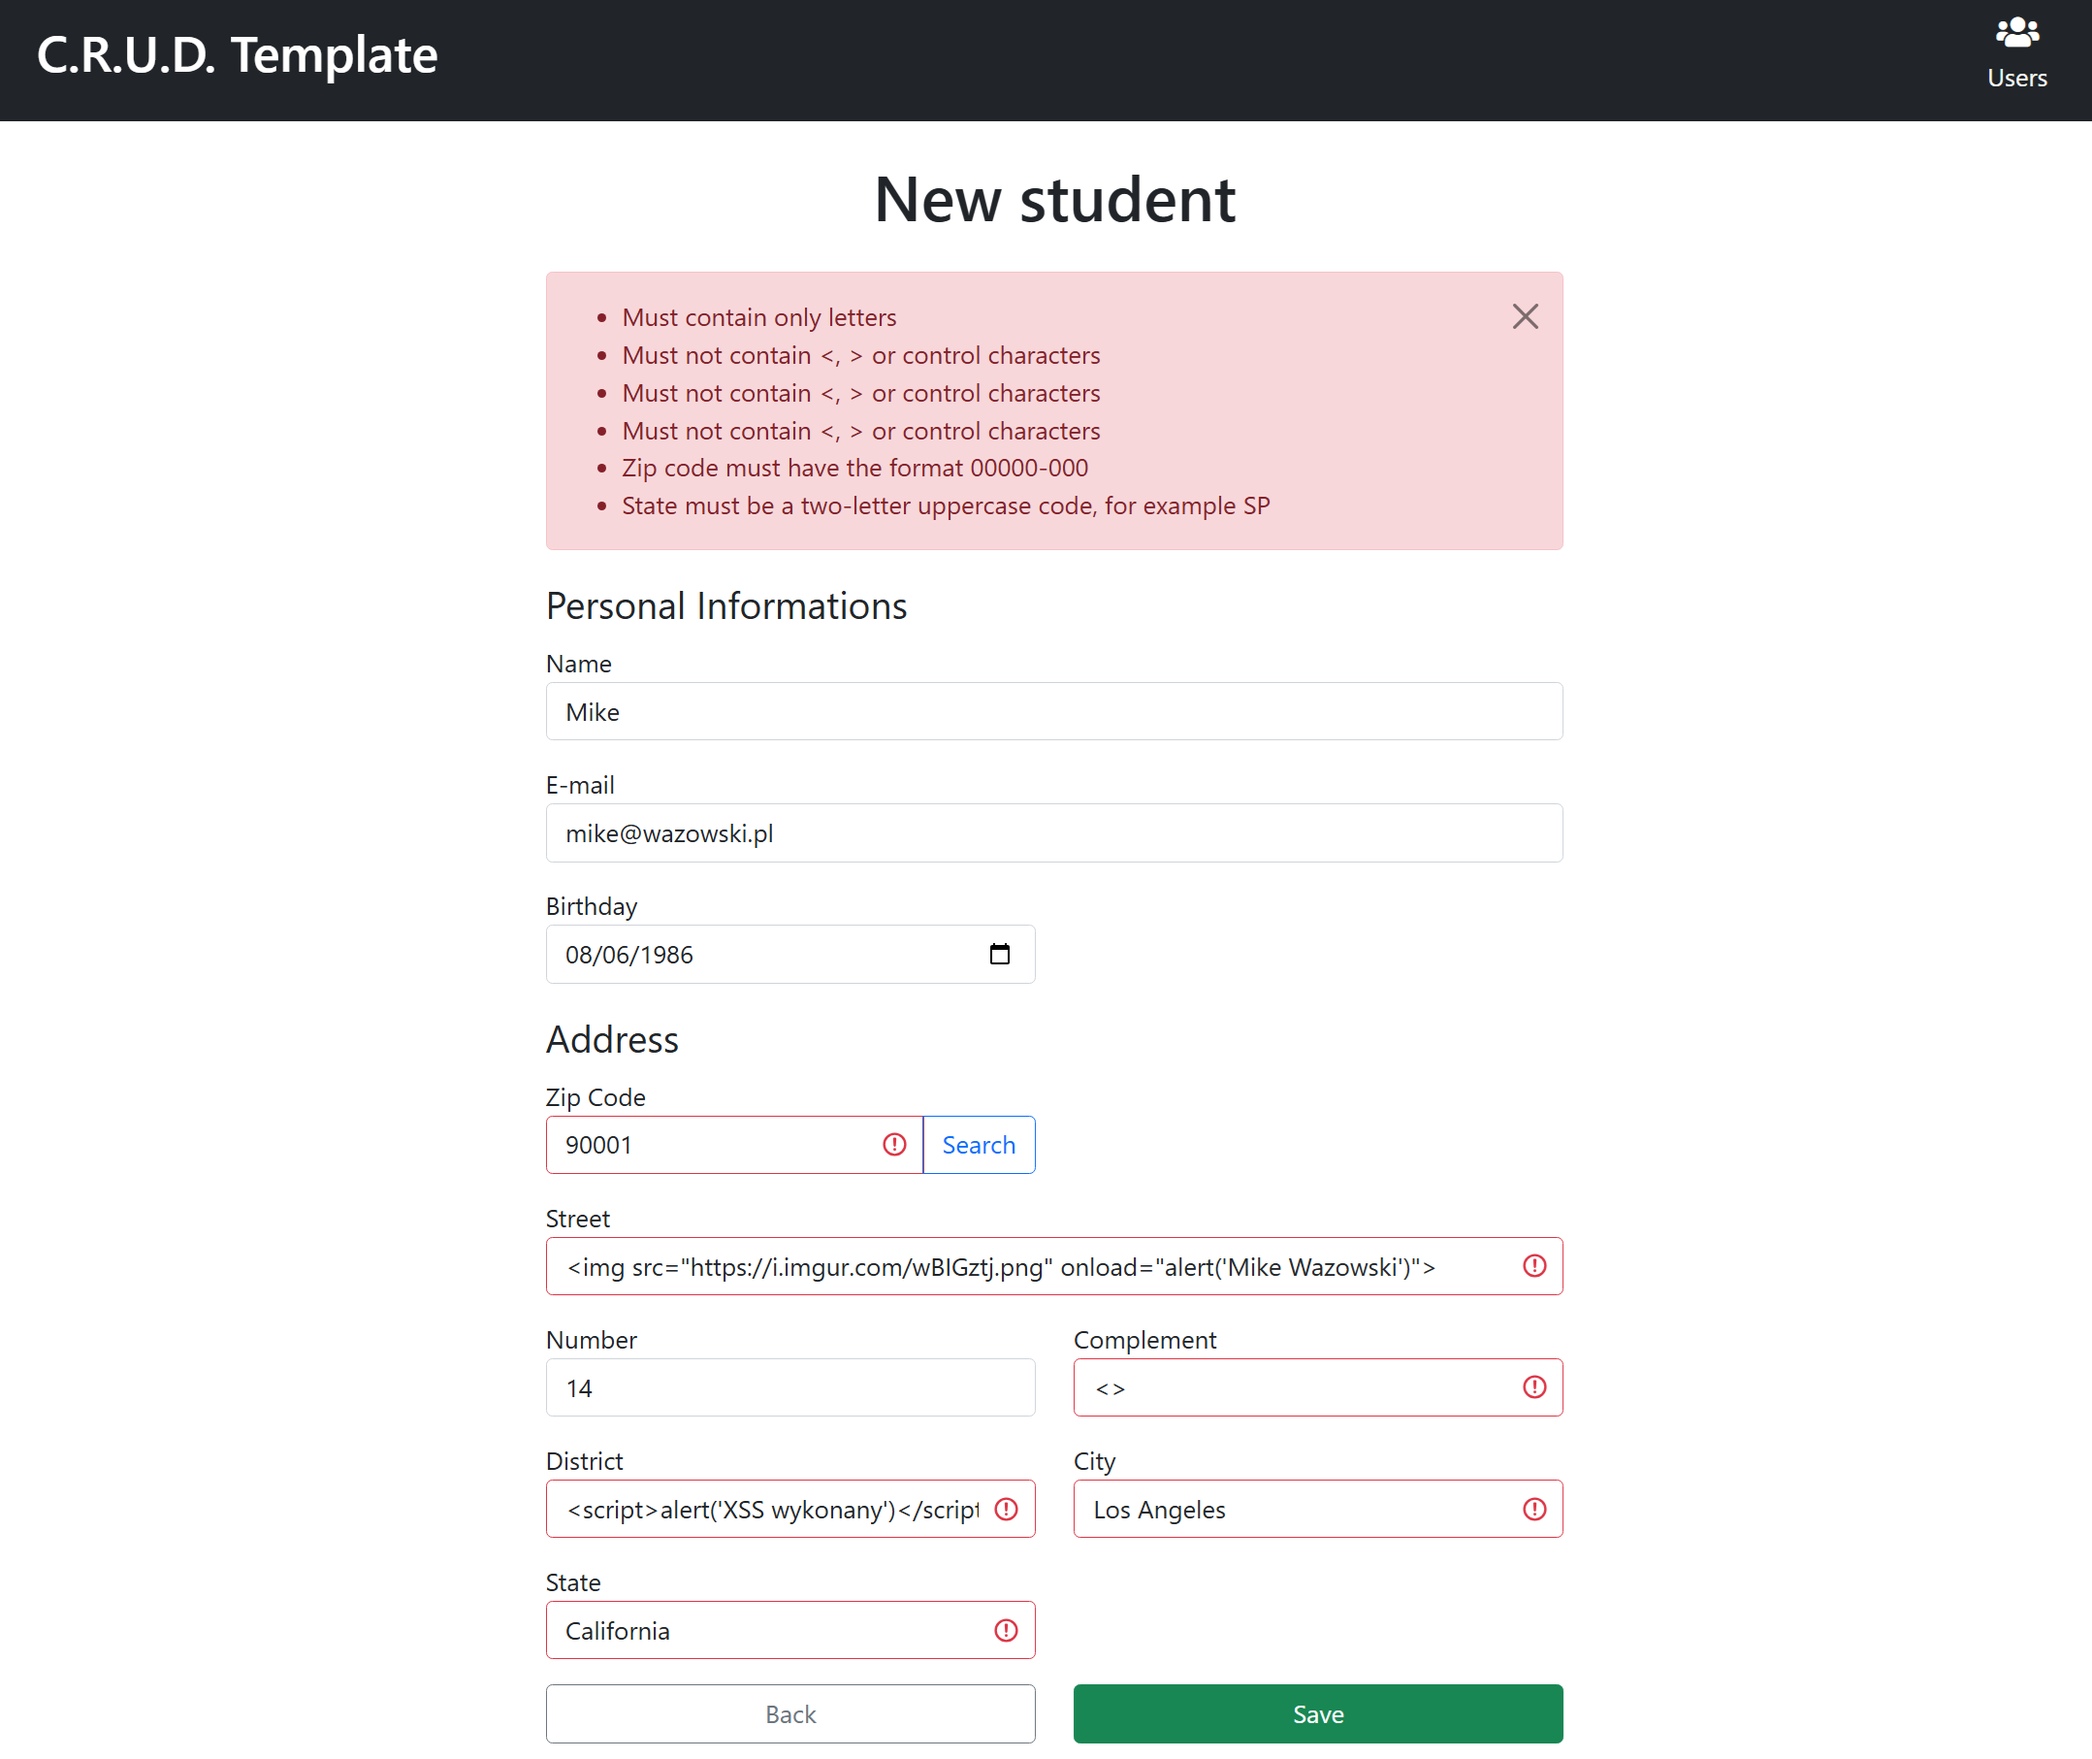
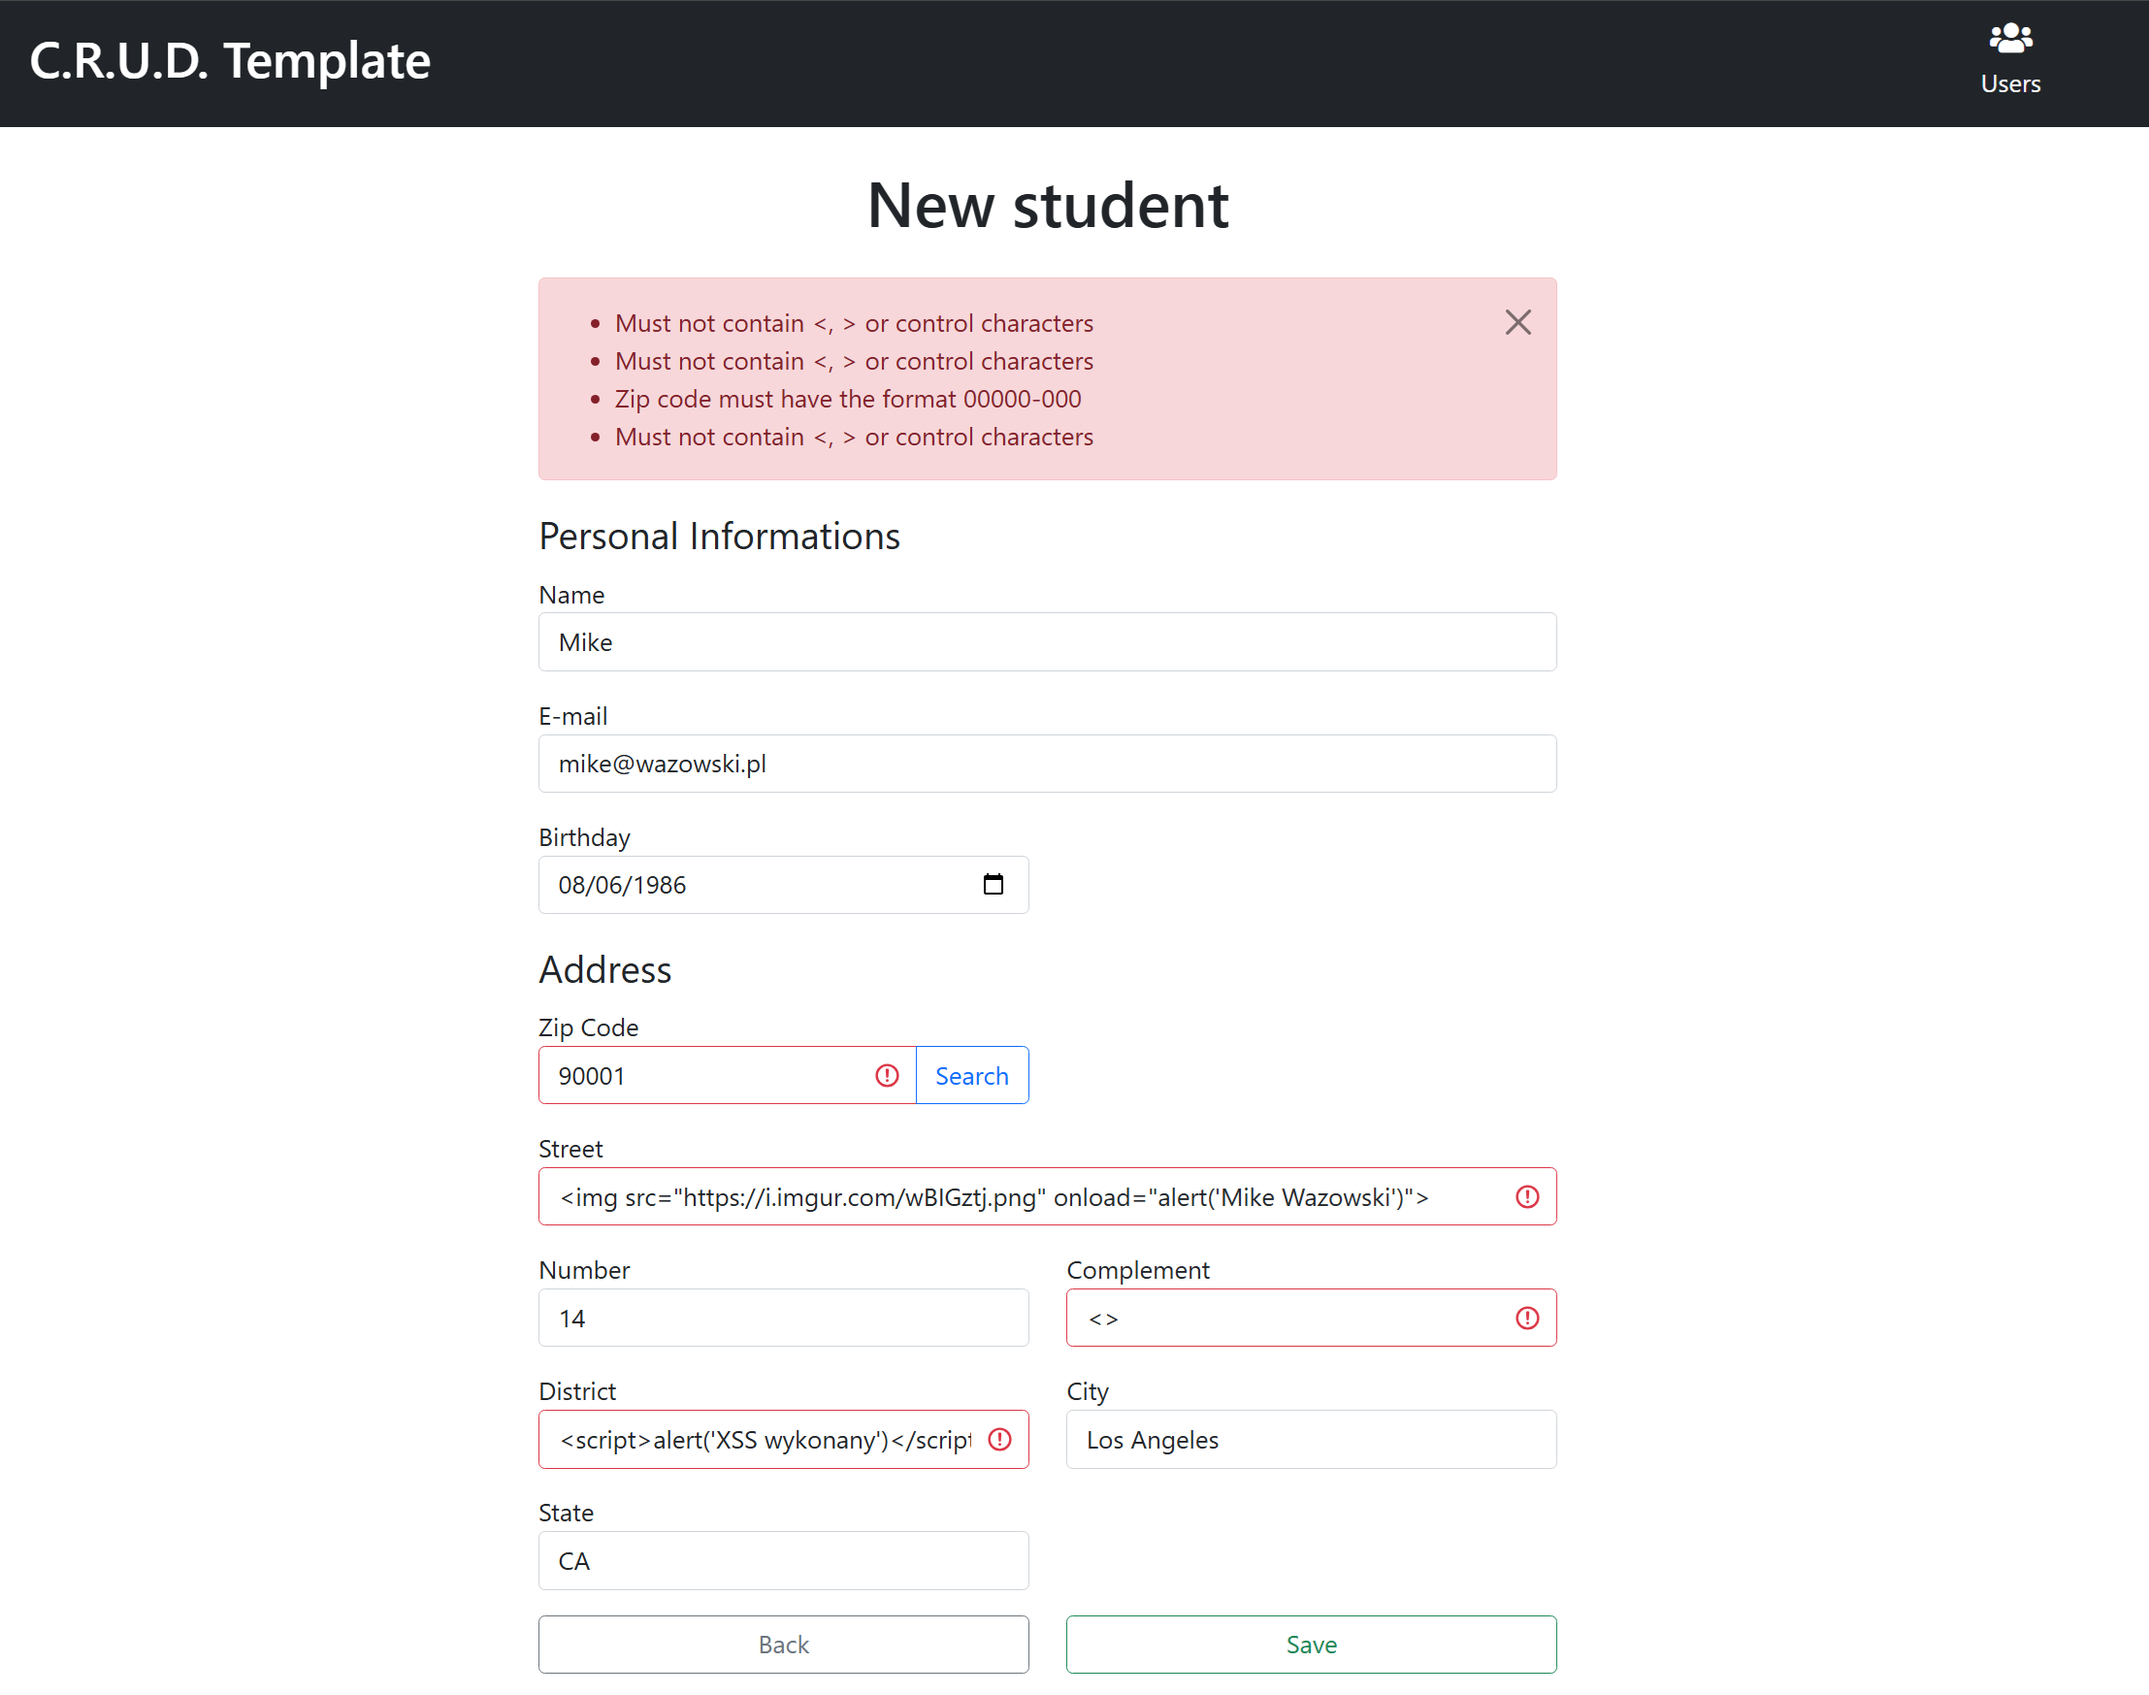
fix: change OnlyLetters annotation

diff --git a/Java/spring-thymeleaf-crud-example/src/main/java/com/example/thymeleaf/dto/CreateStudentDTO.java b/Java/spring-thymeleaf-crud-example/src/main/java/com/example/thymeleaf/dto/CreateStudentDTO.java
@@ -1,7 +1,7 @@
 package com.example.thymeleaf.dto;
 
 import com.example.thymeleaf.validation.OnlyDigits;
-import com.example.thymeleaf.validation.OnlyLetters;
+import com.example.thymeleaf.validation.ValidName;
 import lombok.AccessLevel;
 import lombok.AllArgsConstructor;
 import lombok.Builder;
@@ -24,7 +24,7 @@ import java.time.LocalDate;
 @AllArgsConstructor(access = AccessLevel.PRIVATE)
 public class CreateStudentDTO {
 
-    @OnlyLetters
+    @ValidName
     @Size(max = 255, message = "{Size.maxText}")
     @NotBlank(message = "{NotEmpty.name}")
     private String name;
@@ -61,7 +61,7 @@ public class CreateStudentDTO {
     @NotBlank(message = "{NotEmpty.district}")
     private String district;
 
-    @OnlyLetters
+    @ValidName
     @Size(max = 255, message = "{Size.maxText}")
     @NotBlank(message = "{NotEmpty.city}")
     private String city;

diff --git a/Java/spring-thymeleaf-crud-example/src/main/java/com/example/thymeleaf/validation/ValidName.java b/Java/spring-thymeleaf-crud-example/src/main/java/com/example/thymeleaf/validation/ValidName.java
@@ -13,10 +13,10 @@ import static java.lang.annotation.RetentionPolicy.RUNTIME;
 @Target(FIELD)
 @Retention(RUNTIME)
 @Constraint(validatedBy = {})
-@Pattern(regexp = "\\p{L}+")
+@Pattern(regexp = "[\\p{L} ]+")
 @ReportAsSingleViolation
-public @interface OnlyLetters {
-    String message() default "{Pattern.letters}";
+public @interface ValidName {
+    String message() default "{Pattern.name}";
     Class<?>[] groups() default {};
     Class<? extends Payload>[] payload() default {};
 }

diff --git a/Java/spring-thymeleaf-crud-example/src/test/java/com/example/thymeleaf/dto/CreateStudentDtoValidationTest.java b/Java/spring-thymeleaf-crud-example/src/test/java/com/example/thymeleaf/dto/CreateStudentDtoValidationTest.java
@@ -55,7 +55,7 @@ class CreateStudentDtoValidationTest {
         // then
         assertThat(violations).singleElement().satisfies(violation -> {
             assertThat(violation.getPropertyPath()).hasToString("name");
-            assertThat(violation.getMessage()).isEqualTo("Must contain only letters");
+            assertThat(violation.getMessage()).isEqualTo("Must contain only letters and spaces");
         });
     }
 
